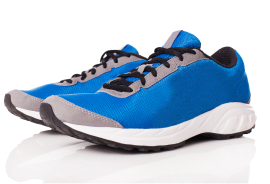
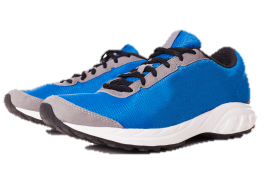
rocketshoes: changing big image on click

diff --git a/RocketShoes/style.css b/RocketShoes/style.css
@@ -141,12 +141,13 @@ aside {
 
   background-color: var(--gallery-background);
 
-  padding: 18rem 1.8rem 4rem 1.8rem;
+  padding: 18rem 1.8rem 0 1.8rem;
 
   display: flex;
   flex-direction: column;
 
   width: 62.5%;
+  height: 91.4rem;
 
   position: absolute;
   right: 0;
@@ -155,15 +156,19 @@ aside {
 aside #big-picture {
   align-self: center;
   width: 59.7rem;
+  height: 51rem;
 }
 
 aside #gallery {
   justify-content: center;
   gap: 3.8rem;
+  margin-top: 2rem;
 }
 
 aside .small-picture img {
   max-width: 100%;
+  width: 25rem;
+  max-height: 18.3rem;
 }
 
 aside .small-picture p {
@@ -191,6 +196,7 @@ footer {
 
 footer iframe {
   width: 100%;
+  padding-top: 2rem;
 }
 
 footer .social-links {

diff --git a/RocketShoes/index.html b/RocketShoes/index.html
@@ -51,6 +51,14 @@
       <ul id="gallery">
         <li class="small-picture">
           <img
+            src="./assets/tenis-2-ampliado.png"
+            alt="Running shows side by side."
+            class="selected"
+          />
+          <p></p>
+        </li>
+        <li class="small-picture">
+          <img
             src="./assets/tenis-1-galeria.png"
             alt="Running shows side by side."
           />

diff --git a/RocketShoes/main.js b/RocketShoes/main.js
@@ -1,11 +1,12 @@
 const smallImgs = document.querySelectorAll('.small-picture img')
+const bigImg = document.querySelector('#big-picture')
 
 function toggleSelectedImg(e) {
   smallImgs.forEach(img => img.classList.remove('selected'))
 
   e.target.classList.add('selected')
 
-
+  bigImg.src = e.target.src
 }
 
 smallImgs.forEach(img => img.addEventListener('click', toggleSelectedImg))
